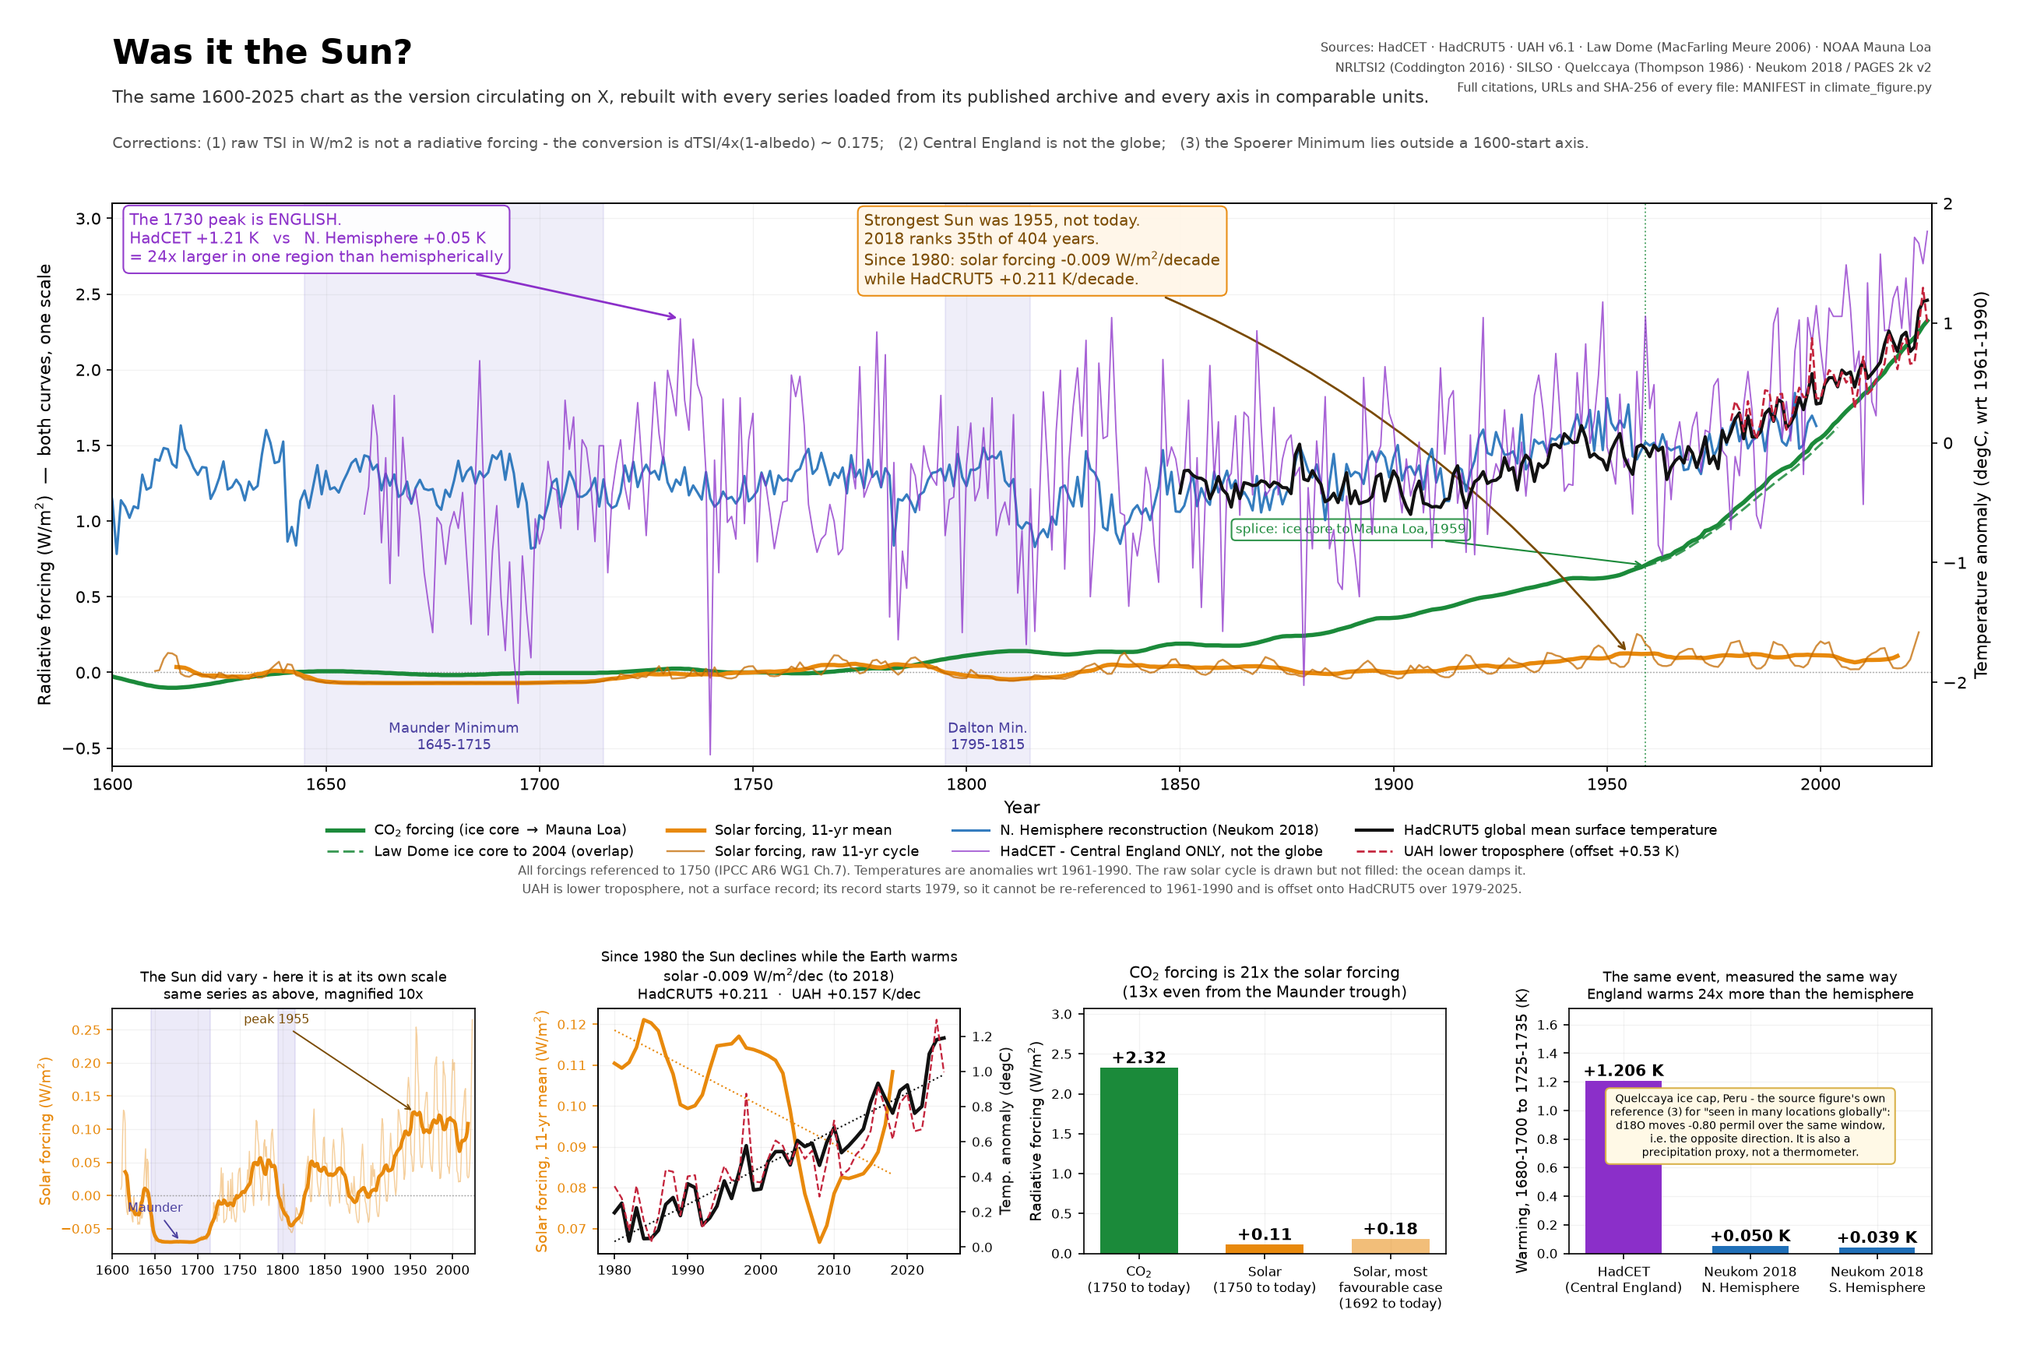
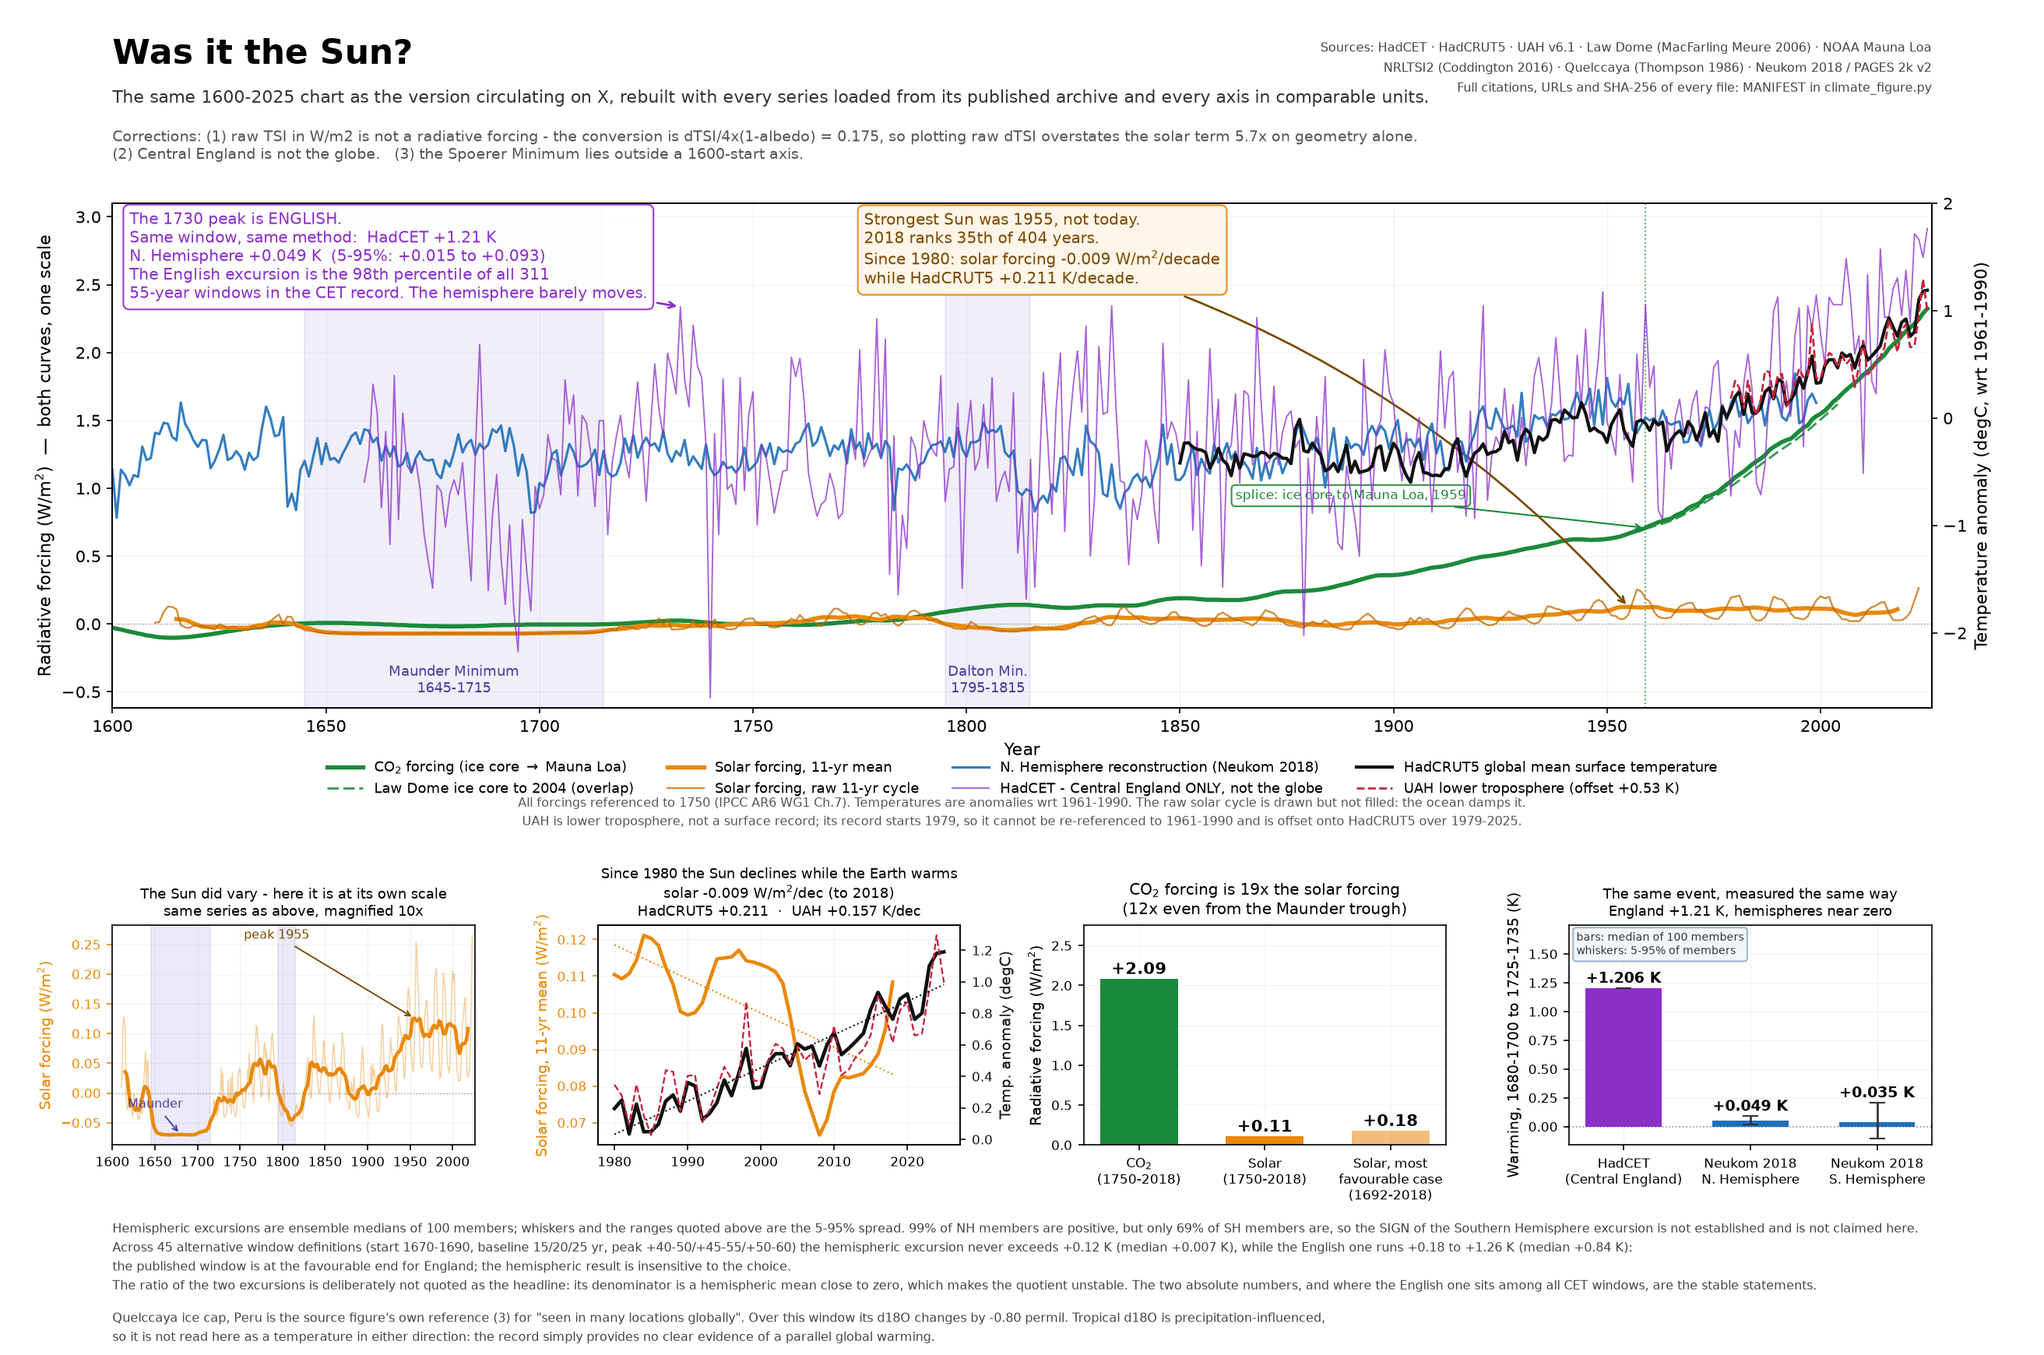
docs: narrow the claims to what the loaded data supports
Every overclaim found in review, corrected rather than softened in wording only:

- The post-1980 sign result was said to be independent of the reconstruction
  choice because that era is satellite-measured. NRLTSI2 is a proxy model even
  in the satellite era, calibrated by regression against space observations. The
  claim is now that the trend is negative WITHIN NRLTSI2, the only TSI dataset
  loaded here.
- "Checked against the same archives the original names" was false: GloSAT is
  not loaded, HadCRUT5 is a deliberate substitute under its own name, and Neukom
  is an additional comparison the original does not use.
- The variance check cannot rule out period-specific damping at 1680-1735, where
  no instrumental record exists to compare against. The ensemble spread remains
  the operative uncertainty statement.
- "All values are computed; none are typed in" was untrue of the README itself.
  The transcribed values are now described as such and guarded by a test.
- Two quoted numbers had no live source after their scratch scripts were
  deleted; audit.py now computes them, and one of them was wrong (the ratio
  range is 0.1 to 43.2, not "below 1 to above 25").

Adds a scope section stating what this repository does not claim: it does not
settle attribution of modern warming, and its own window, reconstruction and
reference-value choices are contestable and quantified rather than defended.

diff --git a/README.md b/README.md
@@ -14,47 +14,88 @@ side. What changes is the parts that were wrong.
 **1. Raw TSI is plotted as if it were a radiative forcing.** Total solar irradiance
 in W/m² at the top of the atmosphere is not a forcing. The Sun illuminates a
 cross-section πr² while the Earth radiates from 4πr², and about 30 % is reflected,
-so the conversion is `ΔTSI/4 × (1−α) ≈ 0.175`. Skipping it overstates the solar
-term by a factor of ~5.7 on geometry alone. Scaling the solar axis to the 11-year
-cycle peaks compounds it.
+so the conversion is `ΔTSI/4 × (1−α)` = **0.175**, and skipping it overstates the
+solar term by its reciprocal, **5.7×**, on geometry alone. Both numbers follow from
+`ALBEDO` in `climate_figure.py` and are computed there rather than typed into the
+figure; the two quoted here are checked against that constant by `test_pipeline.py`.
+Scaling the solar axis to the 11-year cycle peaks compounds the error.
 
 **2. HadCET is presented as a global record.** The sharp warming around 1730 is a
 Central England signal. Measured identically — mean of 1680–1700 against mean of
-1725–1735 — England warms **24× more** than the Northern Hemisphere.
+1725–1735 — England warms **+1.21 K** while the Northern Hemisphere warms
+**+0.049 K**. The English excursion is the **98th percentile** of all 311 55-year
+windows in the CET record; the hemispheric one barely moves.
+
+A "55-year window" starting at year *y0* means the mean over *y0…y0+20* subtracted
+from the mean over *y0+45…y0+55*. The published comparison is the *y0* = 1680
+member of that family. The definition lives in one place in `climate_figure.py`, and
+`audit.py` calls the same function, so the figure and its audit count the same 311
+windows (start years 1659–1969) rather than two slightly different populations.
+
+The *ratio* of those two numbers is 24.5, but this repository does not lead with
+it. Its denominator is a hemispheric mean close to zero, which makes the quotient
+unstable — across 54 sliding windows the same ratio runs from 0.1 to 43.2, and 6 %
+of them exceed our value without anything remarkable happening. Two absolute
+numbers and a percentile are the defensible statement; a large quotient is not.
+(`audit.py` block 8 computes these.)
 
 **3. The Spörer Minimum (~1460–1550) is labelled on an axis that starts in 1600,**
 roughly 150 years from the period it names.
 
 ## What this repository finds
 
-All values are computed by the pipeline; none are typed in.
+Every value annotated in the figure is computed by the pipeline from the validated
+files in the same run. The rounded values below are transcribed into this README by
+hand and reproduce the current pinned run; `test_pipeline.py` checks the headline
+figures against `derive()` so they cannot drift out of step unnoticed.
+
+Both forcings are read at **2018**, the last year both are defined: the CO₂ record
+runs to 2025, but a *centred* 11-year solar mean necessarily stops five years short
+of the end of the TSI record. Comparing CO₂ at 2025 with a solar value at 2018 and
+calling both "today" would inflate every ratio below.
 
 | | |
 |---|---|
-| CO₂ forcing, 1750→today | **+2.32 W/m²** |
-| Solar forcing, 1750→today | **+0.11 W/m²** |
-| Ratio | **21 : 1** |
-| Ratio, measured from the Maunder trough (1692) | **13 : 1** |
-| Solar forcing trend since 1980 | **−0.009 W/m²/decade** |
+| CO₂ forcing, 1750→2018 | **+2.085 W/m²** |
+| Solar forcing, 1750→2018 | **+0.108 W/m²** |
+| Ratio | **19 : 1** |
+| Ratio, measured from the Maunder trough (1692→2018) | **12 : 1** |
+| Solar forcing trend since 1980 | **−0.009 W/m²/decade** (to 2018) |
 | HadCRUT5 trend since 1980 | **+0.211 K/decade** |
 | UAH lower-troposphere trend since 1980 | **+0.157 K/decade** |
-| Warming 1680–1700 → 1725–1735, HadCET | **+1.206 K** |
-| …same window, N. Hemisphere reconstruction | **+0.050 K** |
-| …same window, S. Hemisphere reconstruction | **+0.039 K** |
+| Warming 1680–1700 → 1725–1735, HadCET | **+1.206 K** (single series) |
+| …same window, N. Hemisphere reconstruction | **+0.049 K**, 5–95 % **+0.015 … +0.093**, 99 % of members positive |
+| …same window, S. Hemisphere reconstruction | **+0.035 K**, 5–95 % **−0.103 … +0.209**, only 69 % positive |
+| HadCET excursion vs all 311 CET 55-year windows (1659–1969) | **98th percentile** |
+
+The hemispheric figures are medians over 100 ensemble members, with the 5–95 %
+spread of the same members. The Southern Hemisphere interval spans zero, so **the
+sign of the SH excursion is not established** and is not claimed here. The Northern
+Hemisphere result is what carries the regional-versus-global argument.
 
 Two results carry most of the weight:
 
-**The Sun and the Earth have moved in opposite directions since 1980.** No choice of
-axis can repair a disagreement in sign. The strongest 11-year mean TSI in the record
-is **1955**, not today; 2018 ranks 35th of 404 years.
+**The Sun and the Earth have moved in opposite directions since 1980** — within
+NRLTSI2, the only TSI dataset loaded here. No choice of *axis* can repair a
+disagreement in sign, and this result is far less sensitive to the reconstruction
+than the amplitude comparison is; it is not, however, independent of it. See
+[the objection this repository cannot settle](#the-objection-this-repository-cannot-settle).
+The strongest 11-year mean TSI in the record is **1955**, not today; 2018 ranks 35th
+of 404 years.
 
-**The source figure's own reference (3) contradicts it.** Thompson et al. (1986),
-the Quelccaya ice cap in Peru, is cited there for "seen in many locations globally".
-Over the same 1680–1700 → 1725–1735 window its δ¹⁸O moves −0.80 ‰ — the opposite
-direction — and Central England correlates with it at r = −0.02 (annual) over
-1659–1800. The paper's own abstract highlights 1590–1630, 1800–1840 and 1915–1940,
-not 1690–1730. It is also a precipitation-influenced proxy, not a thermometer, so on
-a correct reading it cannot support a temperature claim at all.
+**The source figure's own reference (3) does not support it.** Thompson et al.
+(1986), the Quelccaya ice cap in Peru, is cited there for "seen in many locations
+globally". Over the same 1680–1700 → 1725–1735 window its δ¹⁸O changes by −0.80 ‰,
+and Central England correlates with it at r = −0.018 (annual, n = 142) over
+1659–1800 — `audit.py` block 8 computes this alongside the smoothed value. The
+paper's own abstract highlights 1590–1630, 1800–1840 and 1915–1940 — not 1690–1730.
+
+Note what this does *not* say. Tropical δ¹⁸O is precipitation-influenced, not a
+thermometer — the authors' companion title is "A 1500-Year Record of Tropical
+Precipitation" — so the sign of that change is **not** read here as cooling, and no
+proxy-to-temperature model is applied. The defensible statement is the narrower one:
+the record provides no clear evidence of a parallel global warming, and therefore
+cannot carry the claim made of it.
 
 ## Reproducing it
 
@@ -70,23 +111,113 @@ config; do not weaken the check.
 
 ```bash
 python robustness.py
+python test_pipeline.py
 ```
 
-prints the sensitivity of the CO₂:solar ratio to albedo, to the reference year, and
-to skipping the geometric conversion altogether, plus a cross-check of the CO₂
-forcing against IPCC AR6.
+`robustness.py` prints the sensitivity of the CO₂:solar ratio to albedo, to the
+reference year, and to skipping the geometric conversion altogether, plus a
+cross-check of the CO₂ forcing against IPCC AR6. `test_pipeline.py` asserts the
+guarantees the figure depends on: that both forcings are read at the same year, that
+the ensemble intervals are recomputed from the ensemble files, that the plotted bar
+and its whiskers are the same statistic, that every MANIFEST field is present and
+non-empty, and that no series is loaded without being used.
+
+## What this repository claims, and what it does not
+
+**It claims** that one specific figure does not support the conclusion printed on
+it: the solar term it draws is not a radiative forcing, the 1730 excursion it
+presents as global is a Central England signal, and the reference it cites for
+global synchrony does not show what it is cited for.
+
+Each series used here is loaded from its explicitly named published archive. Where
+the source figure cannot be reproduced directly — most notably GloSAT, which needs a
+free CEDA account — the replacement or additional comparison series is identified
+under its real name and is never presented as the original dataset. HadCRUT5 is
+labelled HadCRUT5, not GloSAT; the Neukom 2018 hemispheric reconstructions are an
+additional comparison the source figure does not use at all.
+
+**It does not claim** to settle attribution of modern warming. That question is
+answered by a literature this repository does not attempt to summarise — fingerprint
+studies, energy-balance constraints, ocean heat content, model–observation
+comparison. Nothing here depends on that literature, and nothing here replaces it.
+
+**It does not claim** its own numbers are the last word. The window definition, the
+solar reconstruction and the pre-industrial CO₂ reference are all contestable
+choices; each is quantified below rather than defended, and `audit.py` exists to
+attack them. Where a choice turned out to be doing the work — the excursion ratio —
+the figure was changed rather than the wording.
+
+## What was checked against itself
+
+`audit.py` attacks the conclusions above with the loaded data. The checks it runs,
+and what each one did to the figure:
+
+- **CO₂ splice** — the step across the 1959 ice-core → Mauna Loa join is +0.78 ppm,
+  smaller than the +0.88 ppm/yr rise of the 1960s. The splice does not manufacture a
+  jump. Mauna Loa runs ~2.3 ppm above the Law Dome spline over their overlap, as
+  expected for a Hawaiian station against a smoothed Antarctic core.
+- **TSI time axis** — the "days since 1610-01-01" conversion puts cycle maxima at
+  1957, 1981, 2000 and 2015 against expected ~1958, ~1979, ~2000–2002 and ~2014.
+  Scatter of ±2 years in both directions, no systematic offset.
+- **Reconstruction damping** — over the 1850–1999 overlap the NH reconstruction
+  carries 93 % of HadCRUT5's standard deviation, so there is no sign of strong
+  general variance compression. This check cannot rule out period-specific or
+  frequency-dependent damping in the early 18th century, where no instrumental
+  record exists to compare against. The ensemble spread, not this ratio, remains the
+  operative statement of historical uncertainty.
+- **CO₂ reference value** — the Law Dome spline gives 276.80 ppm at 1750 against the
+  IPCC AR6 reference of 278.3 ppm. Using the published value instead would *lower*
+  our CO₂ forcing by 0.029 W/m² and the ratio from 19.2 to about 18.9. The loaded
+  value is kept because typing in a published constant is exactly what this pipeline
+  forbids, and the difference is disclosed rather than pocketed.
+- **Window choice** — across 45 alternative definitions (start year 1670–1690,
+  baseline 15/20/25 years, peak offset +40–50/+45–55/+50–60) the hemispheric
+  excursion never exceeds +0.12 K, median +0.007 K. The English one runs +0.18 to
+  +1.26 K, median +0.84 K. **The published window is at the favourable end for
+  England** — that is stated on the figure itself rather than left to be found. The
+  hemispheric result, which is what the argument rests on, is insensitive to the
+  choice.
+- **Numbers quoted in this README** — block 8 recomputes the two figures that had
+  no live source (the Quelccaya–HadCET correlation and the sliding-window ratio
+  distribution), so nothing quoted here rests on a script that no longer exists.
+- **The excursion ratio did not survive** and the figure was changed. See above.
+
+### The objection this repository cannot settle
+
+The solar reconstruction used here, NRLTSI2, is a low-variability one, and that
+choice is contestable — higher-amplitude reconstructions of the Maunder-to-present
+irradiance change exist. This repository does not adjudicate that debate. It
+computes what the objection would have to be worth: for the solar forcing to *equal*
+the CO₂ forcing, ΔTSI from 1750 to 2018 would have to be about **19× larger than
+NRLTSI2 gives — near 11.9 W/m², roughly 1 % of the solar constant**. A critic who
+rejects NRLTSI2 needs a reconstruction that reaches that, not merely a higher one.
+
+The post-1980 sign result is **less** dependent on that choice, but it is not
+independent of it. NRLTSI2 is calibrated against direct space-based observations
+over the satellite era and reproduces their variability, so its modern trend is far
+better constrained than its Maunder-era amplitude. It remains a proxy model built on
+sunspot and facular indices regressed onto those observations, not a satellite
+composite. This pipeline loads NRLTSI2 and nothing else, so what it can honestly say
+is narrower than "reconstruction-independent": **within the NRLTSI2 dataset the trend
+since 1980 is negative**, and no alternative TSI composite has been loaded here to
+test that against.
 
 ## How it is kept honest
 
 `data/` is not committed; `fetch_data.py` downloads the exact files in the MANIFEST.
-Every series carries a MANIFEST entry with citation, URL, access date and SHA-256,
-and an `EXPECT` entry checked before anything is plotted:
+Every series carries a MANIFEST entry with citation, URL, access date and the
+**SHA-256 of the file actually used** — that hash has one home, and `EXPECT` does
+not keep a second copy of it, because two hand-maintained copies drift and a
+drifted hash is worse than none: it still looks checked. Validation and the
+downloader both read `MANIFEST[key]["sha256"]`.
 
-- **sha256** of the raw file — a wrong file spanning the right years passes a year
+Checked before anything is plotted:
+
+- **sha256** from the MANIFEST — a wrong file spanning the right years passes a year
   check in silence
-- **coverage** — first and last year
-- **value_range** — catches unit errors and column mix-ups
-- **n_min** — catches a file that parsed into mostly NaN
+- **coverage** — first and last year (`EXPECT`)
+- **value_range** — catches unit errors and column mix-ups (`EXPECT`)
+- **n_min** — catches a file that parsed into mostly NaN (`EXPECT`)
 - **column names** — asserted against the real file header, so `CFG` cannot drift
   into documentation
 
@@ -104,12 +235,28 @@ magnification stated, so its real structure — the Maunder dip, Dalton, the 195
 
 HadCET (Manley 1974; Parker et al. 1992) · HadCRUT5 (Morice et al. 2021) ·
 UAH v6.1 (Spencer, Christy & Braswell 2017) · Law Dome CO₂ (MacFarling Meure et al.
-2006) · NOAA GML Mauna Loa · NRLTSI2 (Coddington et al. 2016) · SILSO v2.0 ·
+2006) · NOAA GML Mauna Loa · NRLTSI2 (Coddington et al. 2016) ·
 Quelccaya (Thompson et al. 1986) · Neukom et al. 2018 hemispheric reconstructions
 from PAGES 2k v2.0.0 proxies.
 
 Full citations, URLs, access dates and file hashes: the MANIFEST block at the top of
 [climate_figure.py](climate_figure.py).
 
+The SILSO sunspot number was loaded in an earlier revision but never plotted or used in any computation. It has been removed rather than left half-registered: it is a proxy for the same activity NRLTSI2 already reconstructs, and it cannot be converted to a radiative forcing. The reasoning is recorded in the MANIFEST block.
+
 GloSAT is deliberately not used — it requires a free CEDA account. The global series
 here is HadCRUT5 and is labelled HadCRUT5.
+
+## Licence
+
+Code, figure and documentation in this repository: MIT, see [LICENSE](LICENSE).
+
+The **data is not covered by that licence and is not redistributed here**. Each
+source keeps its own terms and its own citation requirements; `fetch_data.py`
+downloads the files directly from the providers listed in the MANIFEST. If you use
+the figure or reproduce the analysis, cite the underlying datasets, not this
+repository — the citations are in the MANIFEST block of `climate_figure.py`.
+
+The figure that prompted this rebuild is not reproduced here. It is identified in
+the source header of `climate_figure.py` and its claims are quoted as text so they
+can be checked against the data.
